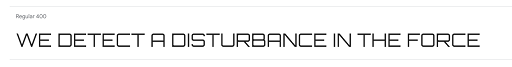
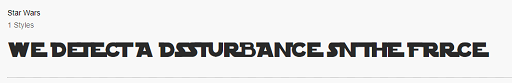
Add correct img to starwars font

Changed region(s): [[0.0, 0.4776, 0.9688, 0.7164], [0.0, 0.9254, 1.0, 0.9552], [0.0, 0.1194, 0.0938, 0.3582]]

diff --git a/README.md b/README.md
@@ -2,7 +2,7 @@
 
 ## Introduction
 
-
+The Game "MindWars" offers an interactive Star Wars-themed game. 
 
 ### Link to the Game - [MindWars](https://star-wars-e347f35c852d.herokuapp.com/)
 
